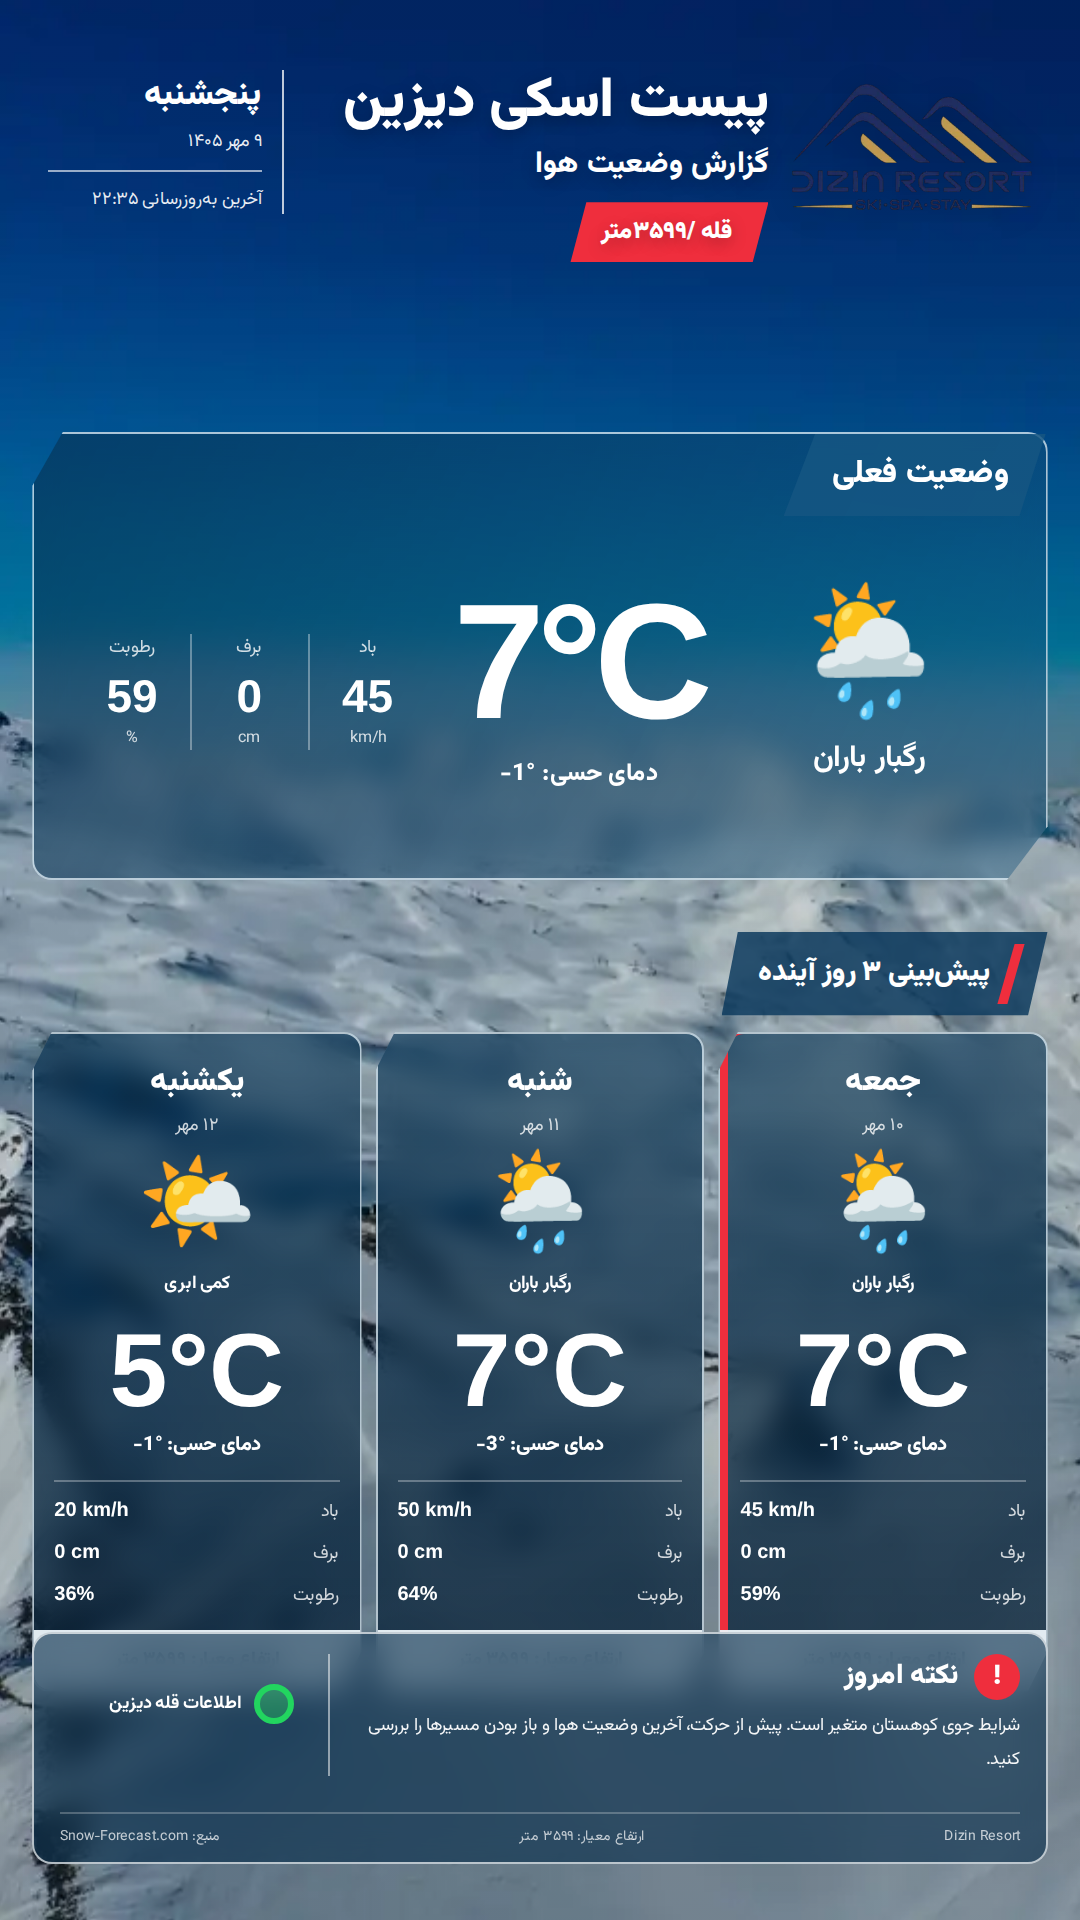
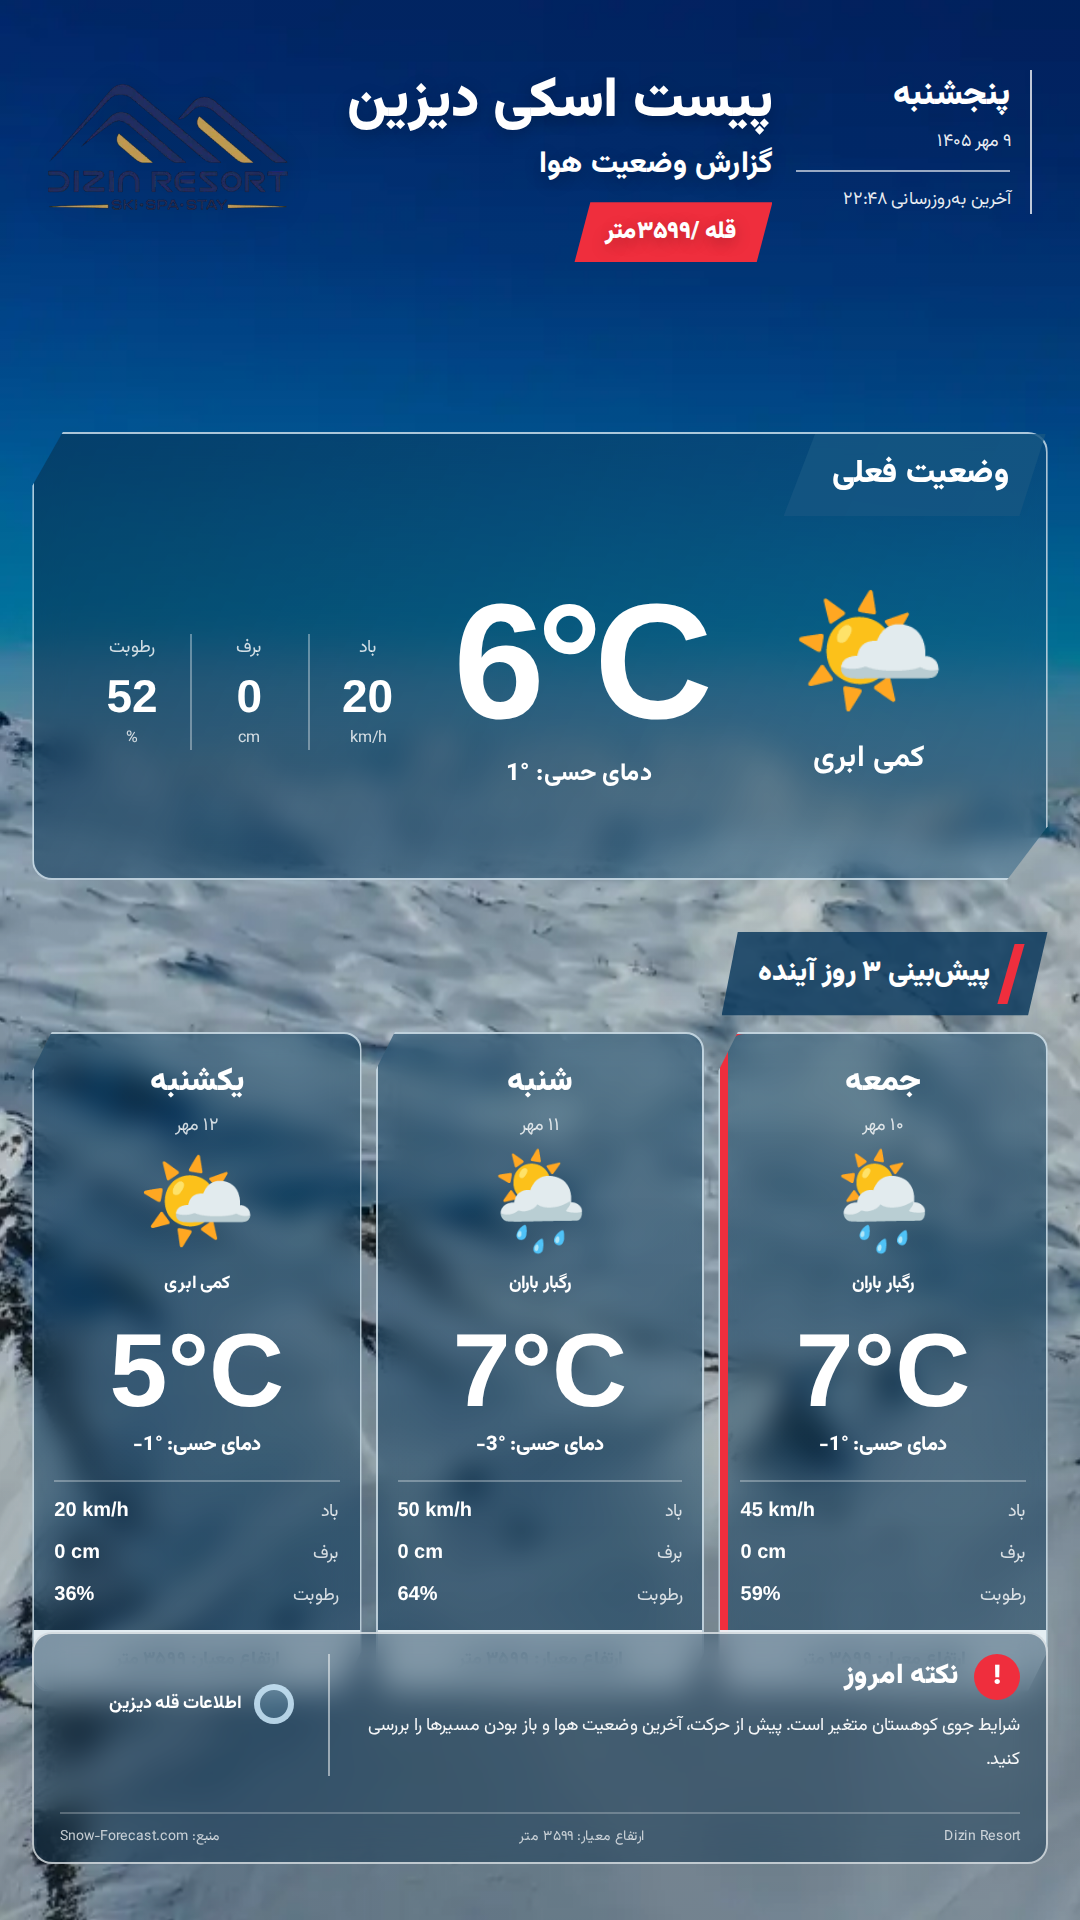
Update daily Dizin weather story

diff --git a/data.js b/data.js
@@ -4,9 +4,24 @@ window.DIZIN_WEATHER = {
   "note": "شرایط جوی کوهستان متغیر است. پیش از حرکت، آخرین وضعیت هوا و باز بودن مسیرها را بررسی کنید.",
   "source": "Snow-Forecast.com",
   "sourceUrl": "https://www.snow-forecast.com/resorts/Dizin/6day/top",
-  "updatedAt": "2026-10-01T19:05:13.642Z",
+  "updatedAt": "2026-10-01T19:18:58.319Z",
+  "current": {
+    "isoDate": "2026-10-01",
+    "day": "پنجشنبه",
+    "date": "۹ مهر",
+    "icon": "🌤",
+    "condition": "کمی ابری",
+    "temp": 6,
+    "feels": 1,
+    "wind": 20,
+    "snow": 0,
+    "humidity": 52,
+    "kind": "summit-period-forecast",
+    "period": "night"
+  },
   "days": [
     {
+      "isoDate": "2026-10-02",
       "day": "جمعه",
       "date": "۱۰ مهر",
       "icon": "🌦",
@@ -18,6 +33,7 @@ window.DIZIN_WEATHER = {
       "humidity": 59
     },
     {
+      "isoDate": "2026-10-03",
       "day": "شنبه",
       "date": "۱۱ مهر",
       "icon": "🌦",
@@ -29,6 +45,7 @@ window.DIZIN_WEATHER = {
       "humidity": 64
     },
     {
+      "isoDate": "2026-10-04",
       "day": "یکشنبه",
       "date": "۱۲ مهر",
       "icon": "🌤",
